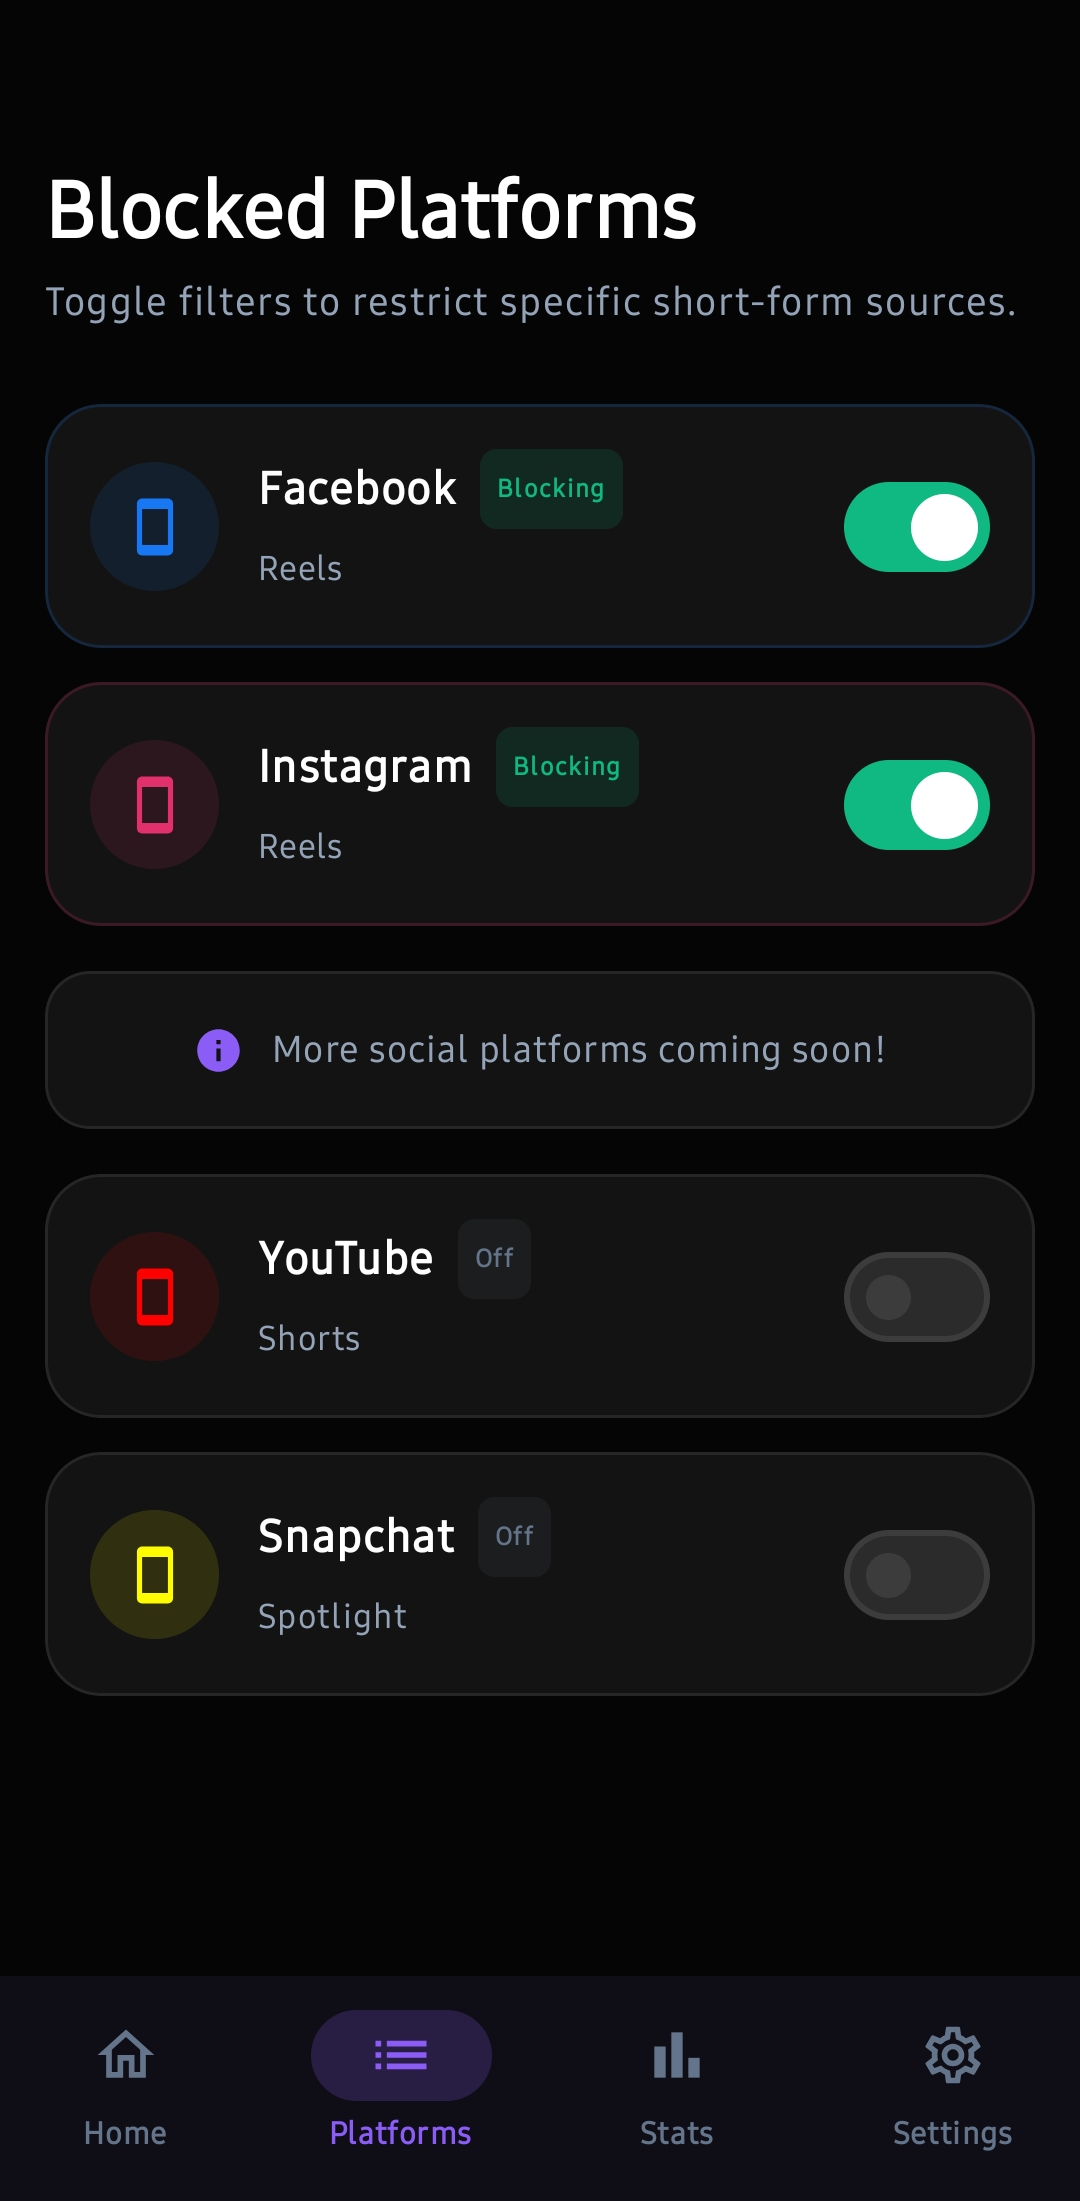
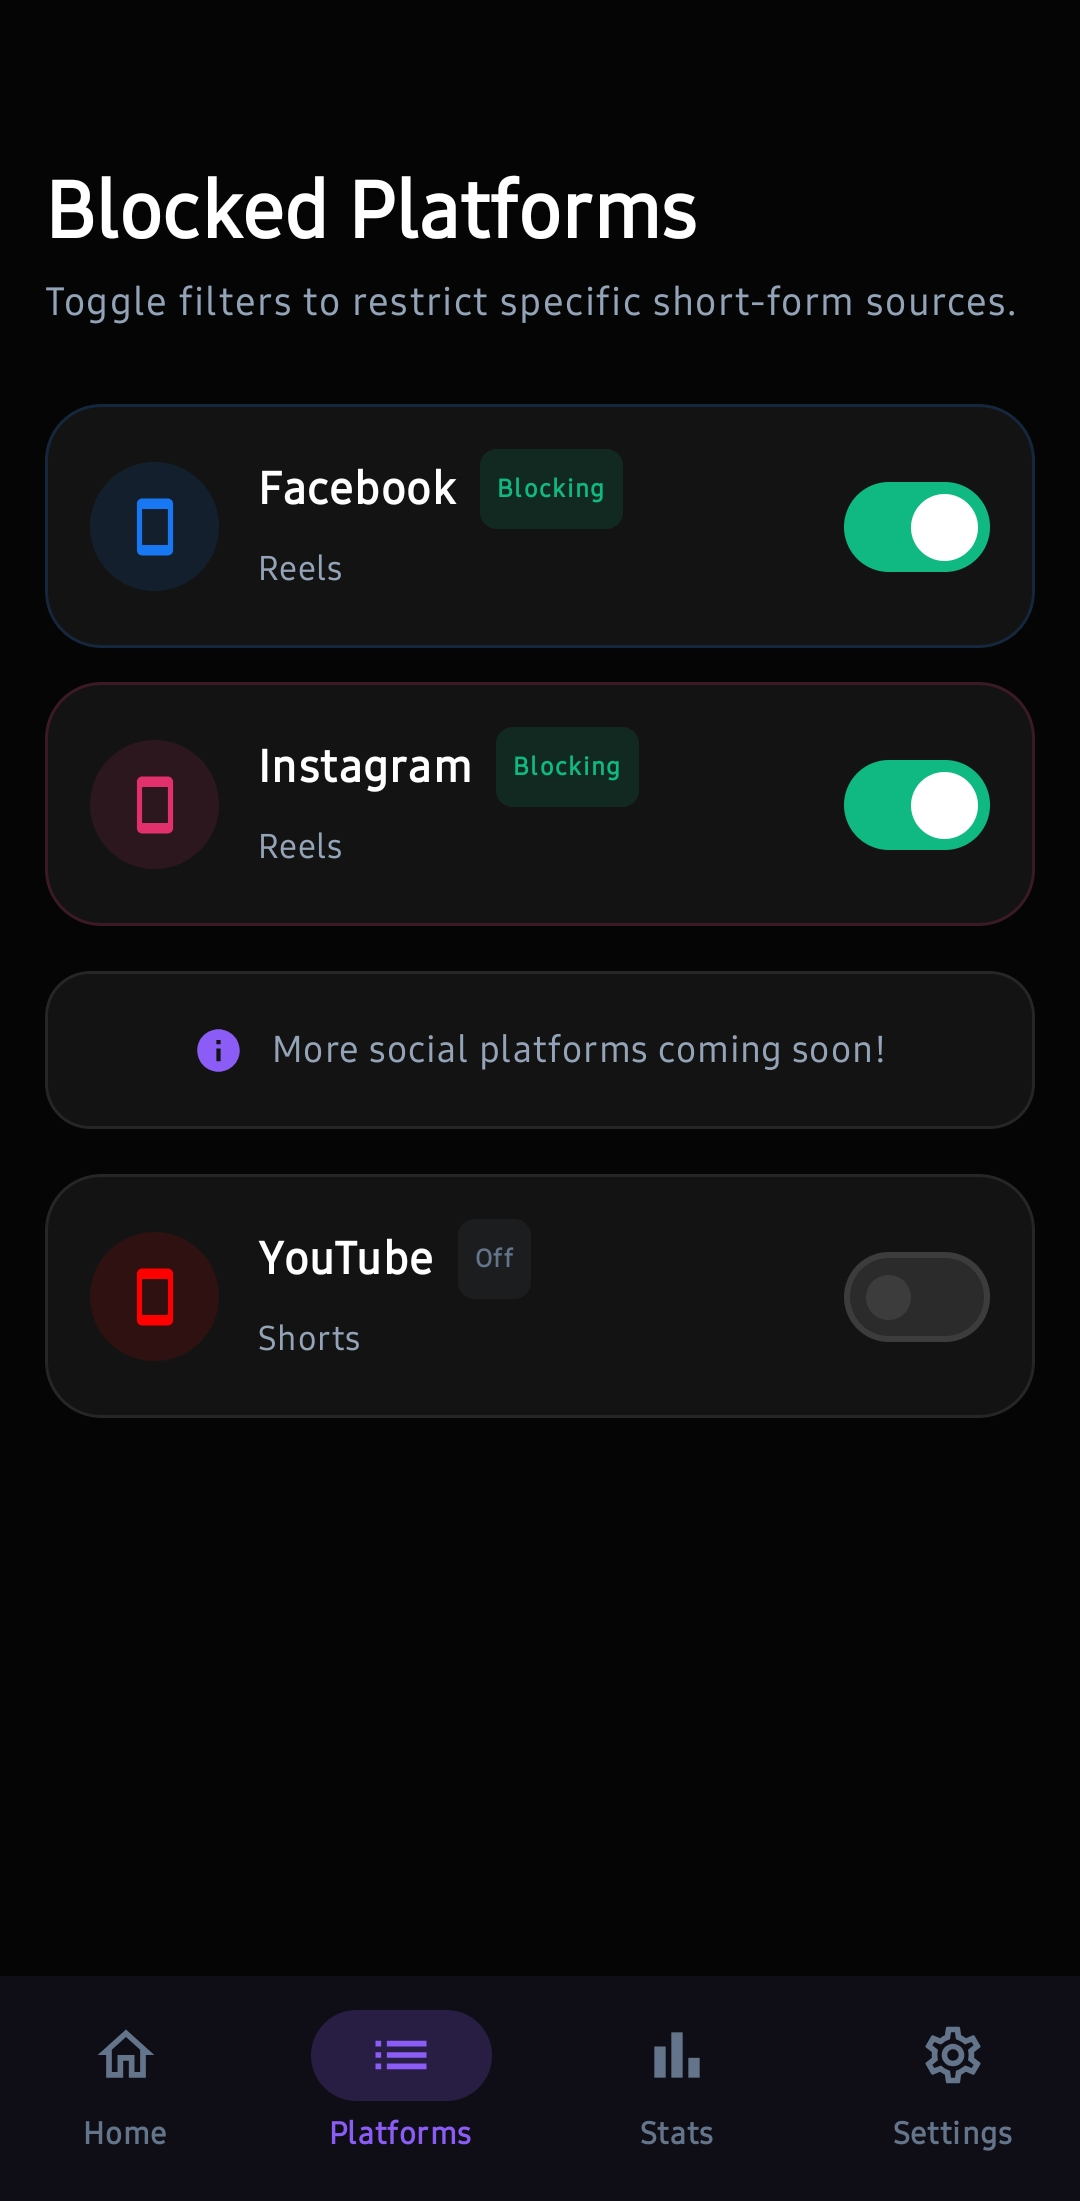
feat: update promotional assets and replace feature graphic in index.html

Changed region(s): [[0.2444, 0.6797, 0.5194, 0.7415], [0.0611, 0.6797, 0.2139, 0.7724], [0.7639, 0.6797, 0.9167, 0.7415]]

diff --git a/index.html b/index.html
@@ -203,7 +203,7 @@
           class="reveal bento-card mb-40 group"
         >
           <img
-            src="img/reels-blocker.png"
+            src="img/reels-blocker-featured-graphic.jpg"
             class="w-full h-auto opacity-90 group-hover:scale-[1.03] group-hover:opacity-100 transition-all duration-[1.5s] ease-out"
             alt="Feature Graphic"
           />